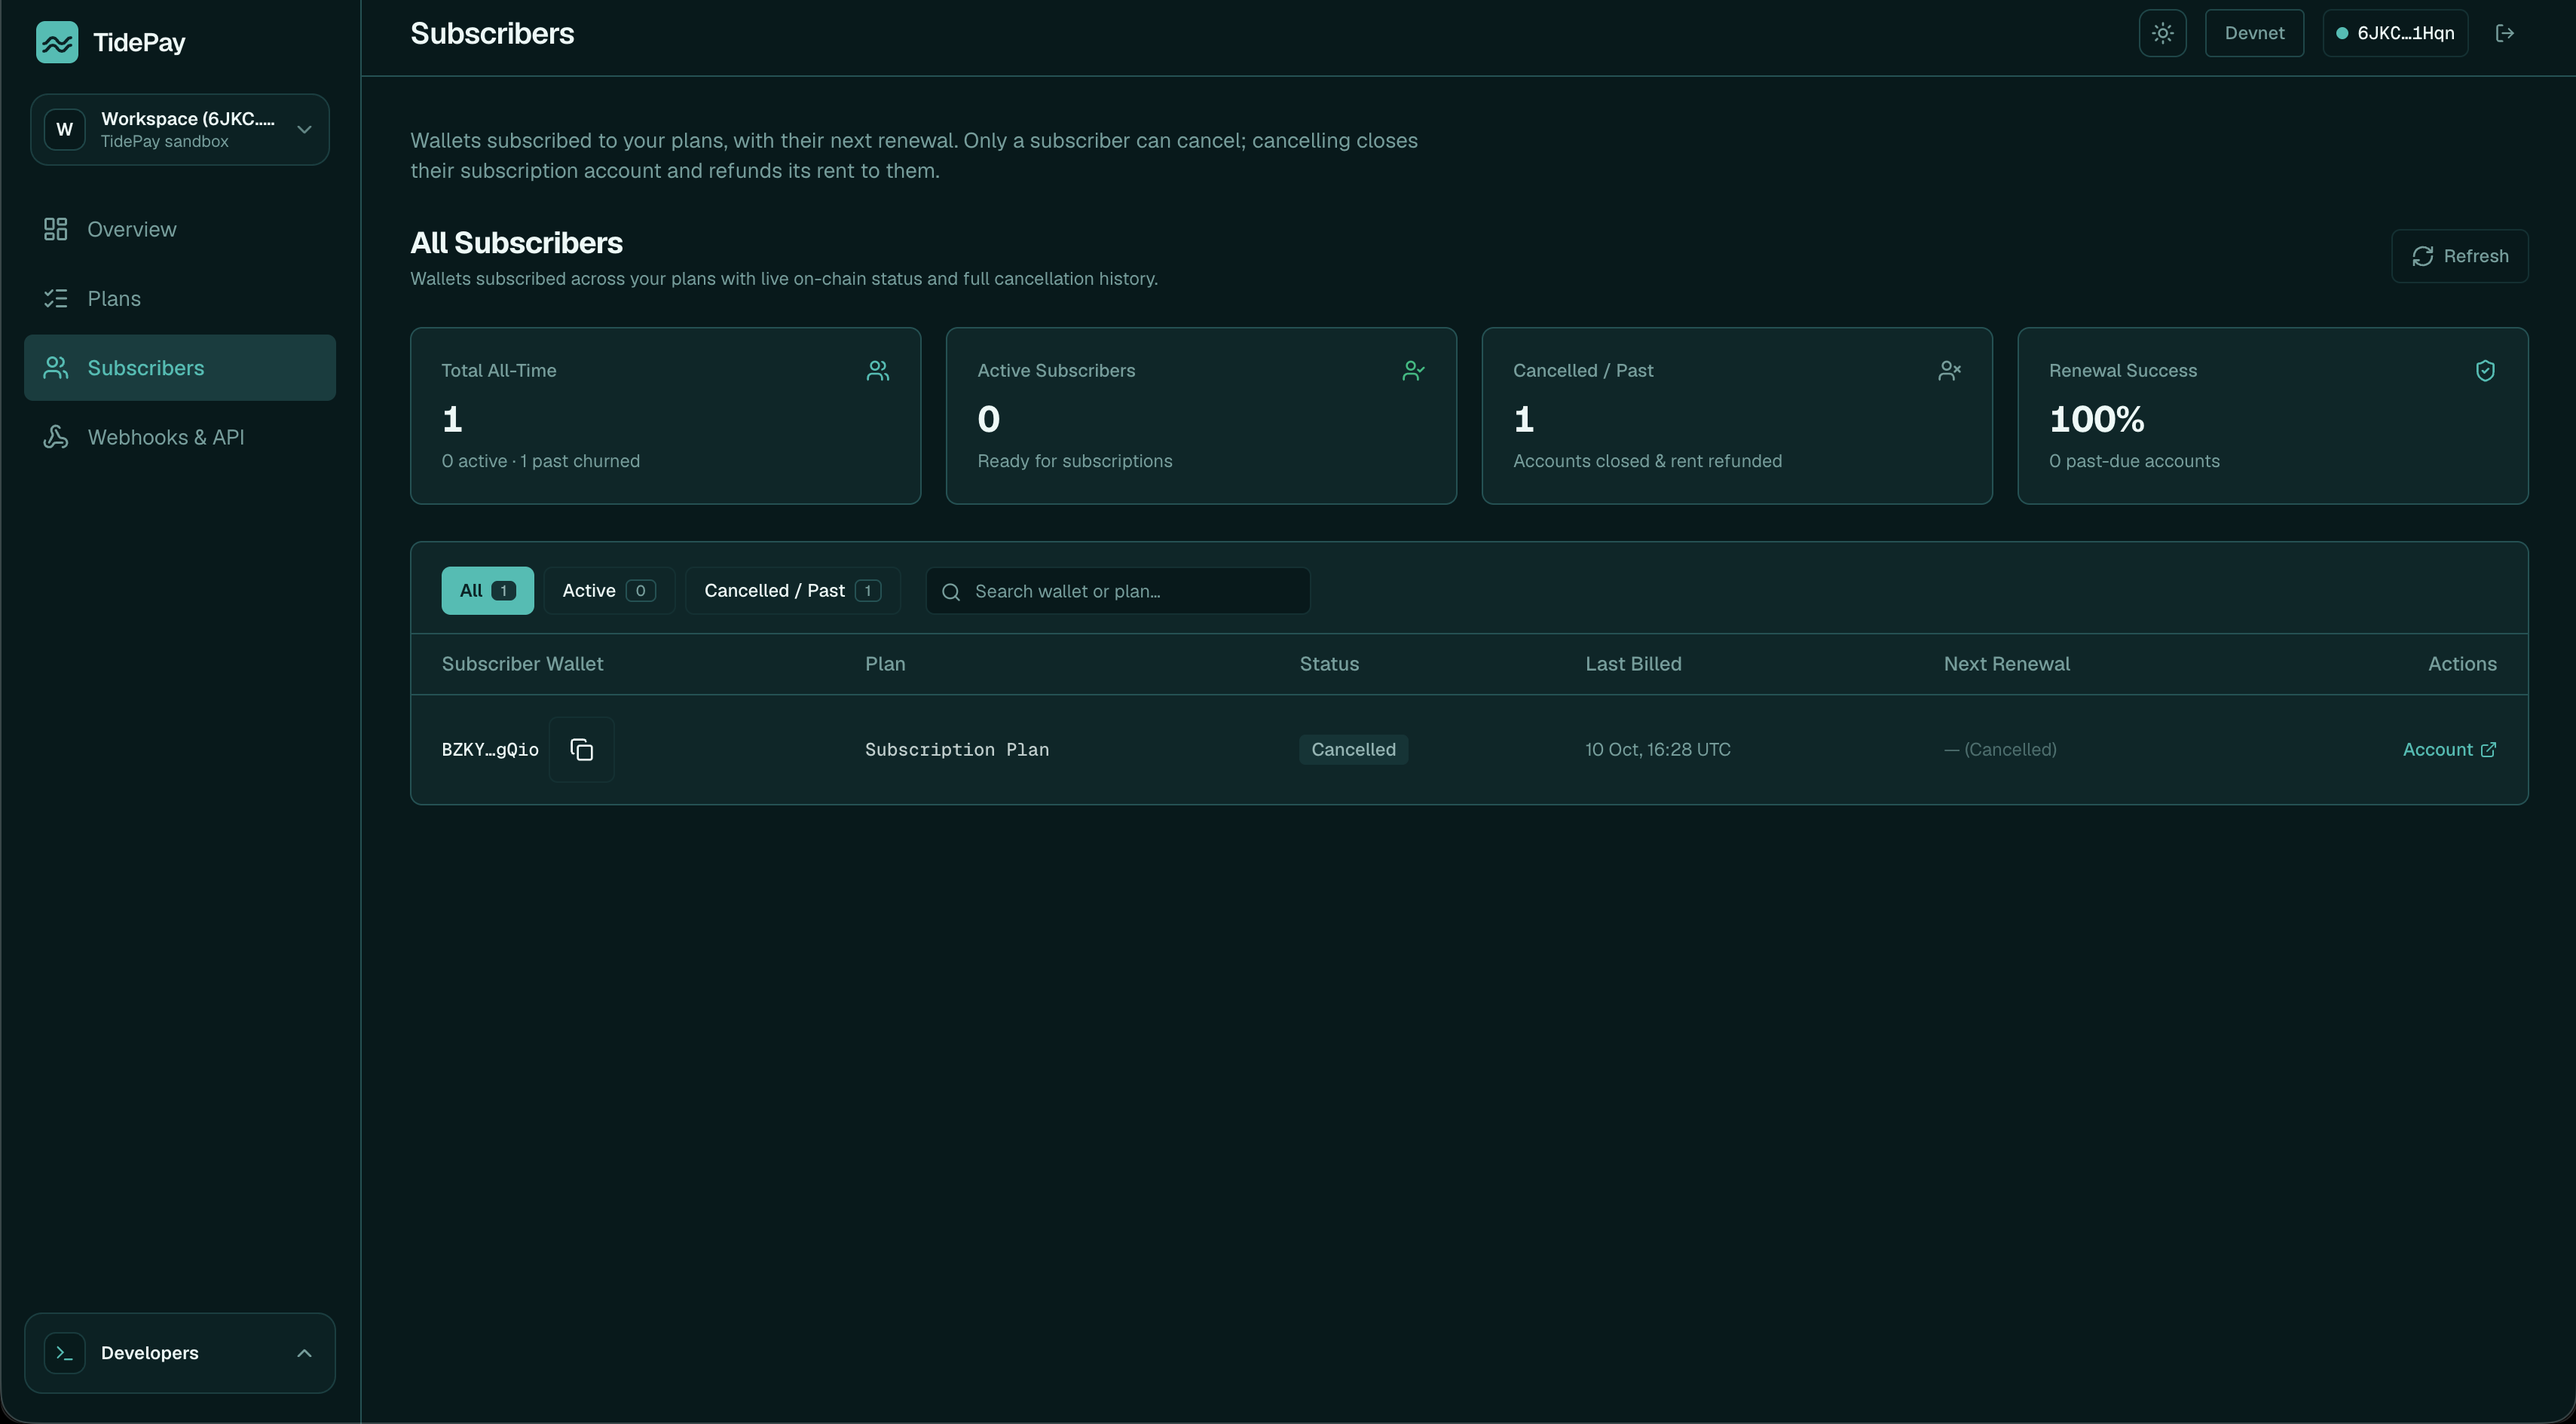
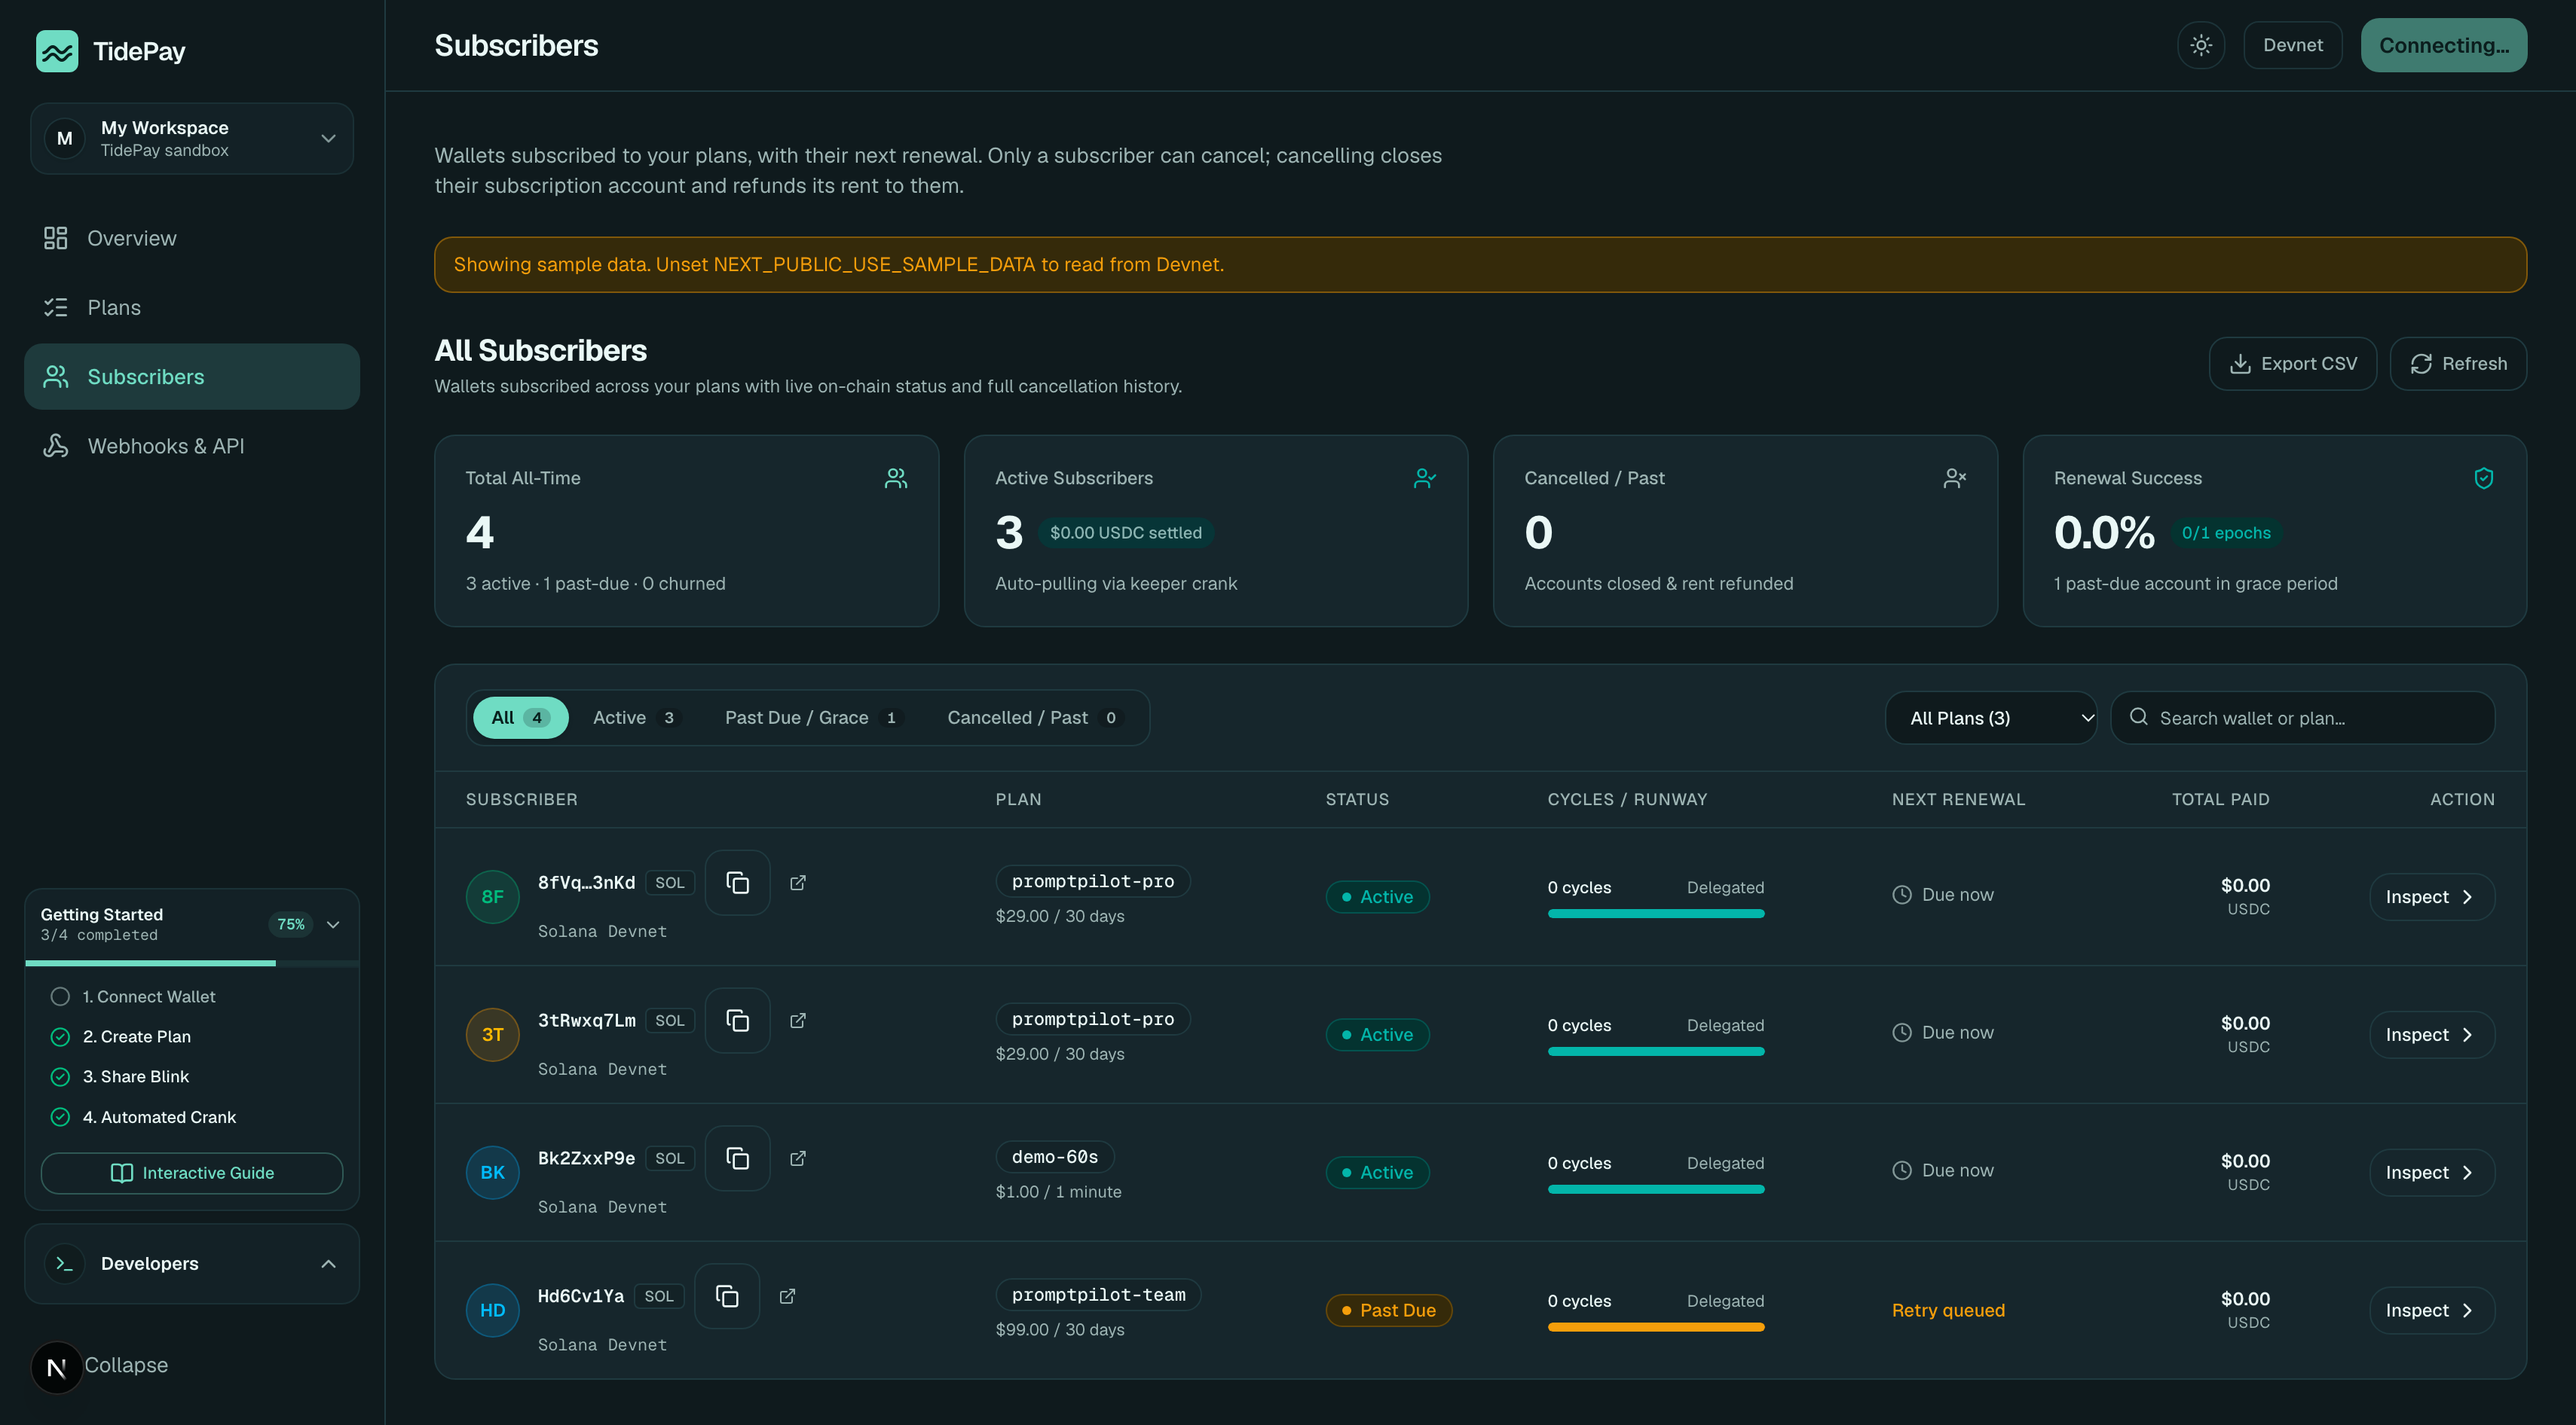
chore: polish multi-chain metadata, docs, links, Tailwind classes, and previews

diff --git a/apps/web/src/app/about/page.tsx b/apps/web/src/app/about/page.tsx
@@ -17,7 +17,7 @@ import {
 export const metadata: Metadata = {
   title: "About Us | TidePay Team & Developers",
   description:
-    "Meet the developers and architects behind TidePay, the non-custodial recurring subscription engine built for the Colosseum Hackathon on Solana.",
+    "Meet the developers and architects behind TidePay, the non-custodial multi-chain recurring subscription engine for Solana and NEAR.",
 };
 
 export default function AboutPage() {
@@ -41,10 +41,10 @@ export default function AboutPage() {
             <span className="inline-flex items-center gap-1.5 rounded-full border border-[#00bfb3]/20 bg-[#00bfb3]/10 px-2.5 py-0.5 text-[11px] font-mono font-medium text-[#00bfb3]">
               <Users className="h-3 w-3" /> Core Team & Vision
             </span>
-            <span className="text-xs font-mono text-zinc-500">Colosseum Hackathon 2026</span>
+            <span className="text-xs font-mono text-zinc-500">Solana &amp; NEAR Protocol</span>
           </div>
           <h1 className="mt-4 text-3xl sm:text-4xl lg:text-5xl font-semibold tracking-tight text-white font-display">
-            Building the Recurring Billing Engine for Solana
+            Building the Recurring Billing Engine for Solana &amp; NEAR
           </h1>
           <p className="mt-3 text-base text-zinc-400 max-w-2xl font-sans leading-relaxed">
             TidePay was founded with a singular conviction: recurring commerce on Web3 should never require custodial escrow vaults, wrapped bridge risks, or manual monthly signatures.
@@ -67,14 +67,14 @@ export default function AboutPage() {
             </p>
           </section>
 
-          {/* Hackathon Origins */}
+          {/* Multi-Chain Architecture */}
           <section className="rounded-2xl border border-white/8 bg-[#0f1015]/80 p-6 sm:p-8 space-y-4">
             <div className="flex items-center gap-2 text-xs font-mono text-[#00bfb3]">
-              <Award className="h-4 w-4" /> Colosseum Hackathon 2026
+              <Award className="h-4 w-4" /> NEAR Hackathon 2026 &amp; Multi-Chain Expansion
             </div>
-            <h3 className="text-xl font-semibold text-white font-display">Built for the Global Solana Ecosystem</h3>
+            <h3 className="text-xl font-semibold text-white font-display">Built for Solana &amp; NEAR Ecosystems</h3>
             <p className="text-xs sm:text-sm text-zinc-400 leading-relaxed">
-              TidePay was engineered from day one as a production-grade, non-custodial protocol for the Colosseum Hackathon. Every architectural decision—from Anchor 0.30+ program safety, SPL Token-2022 checked transfers, sub-second crank concurrency, and Solana Actions/Blinks compatibility—was made to empower developers, merchants, and creators worldwide.
+              TidePay is engineered as a non-custodial recurring billing protocol across Solana and NEAR. From Anchor 0.30+ SPL Token-2022 checked pulls and Solana Blinks to NEAR prepaid NEP-141 contracts, embedded merchant auth, and NEAR Intents 1Click cross-chain funding, every architectural decision empowers developers, merchants, and creators worldwide.
             </p>
           </section>
 

diff --git a/apps/web/src/app/layout.tsx b/apps/web/src/app/layout.tsx
@@ -21,13 +21,13 @@ const khandFont = localFont({
 
 export const metadata: Metadata = {
   metadataBase: new URL(LANDING_URL),
-  title: "TidePay | Non-Custodial Recurring Subscriptions on Solana",
+  title: "TidePay | Non-Custodial Recurring Subscriptions on Solana & NEAR",
   description:
-    "Purpose-built recurring billing engine for Solana. Zero custodial escrow risk. Time-locked pull payments via Token-2022 and autonomous keeper cranks. Collect subscriptions in-feed with Solana Blinks.",
+    "Purpose-built multi-chain recurring billing engine for Solana and NEAR. Zero custodial lockups, time-locked delegated pulls, prepaid NEP-141 epochs, NEAR Intents 1Click, and Solana Blinks.",
   openGraph: {
-    title: "TidePay | Non-Custodial Recurring Subscriptions on Solana",
+    title: "TidePay | Non-Custodial Recurring Subscriptions on Solana & NEAR",
     description:
-      "Time-locked delegated pull billing and autonomous keeper cranks for Solana.",
+      "Time-locked delegated pull billing on Solana, prepaid NEP-141 subscriptions on NEAR, and autonomous keeper cranks.",
     url: LANDING_URL,
     siteName: "TidePay",
     images: [
@@ -35,7 +35,7 @@ export const metadata: Metadata = {
         url: "/og-image.png",
         width: 1200,
         height: 630,
-        alt: "TidePay - Non-Custodial Recurring Subscriptions on Solana",
+        alt: "TidePay - Non-Custodial Recurring Subscriptions on Solana & NEAR",
       },
     ],
     locale: "en_US",
@@ -43,8 +43,8 @@ export const metadata: Metadata = {
   },
   twitter: {
     card: "summary_large_image",
-    title: "TidePay | Recurring Subscriptions on Solana",
-    description: "Zero escrow. 1-click in-feed Blinks. Autonomous keeper cranks.",
+    title: "TidePay | Recurring Subscriptions on Solana & NEAR",
+    description: "Zero custodial lockup. Solana Blinks, NEAR NEP-141 epochs & 1Click Intents.",
     images: ["/og-image.png"],
   },
   icons: {

diff --git a/apps/dashboard/src/components/console/overview-view.tsx b/apps/dashboard/src/components/console/overview-view.tsx
@@ -613,8 +613,8 @@ function RevenueChart({ events }: { events: PlanOnChainEvent[] }) {
   const line = pts.map(([x, y], i) => `${i ? "L" : "M"}${x.toFixed(1)},${y.toFixed(1)}`).join(" ");
 
   return (
-    <div className="flex flex-1 flex-col justify-between w-full h-full min-h-[220px]">
-      <div className="relative flex flex-1 items-center justify-center w-full my-4 min-h-[170px]">
+    <div className="flex flex-1 flex-col justify-between w-full h-full min-h-55">
+      <div className="relative flex flex-1 items-center justify-center w-full my-4 min-h-42.5">
         {hasData ? (
           <svg viewBox={`0 0 ${W} ${H}`} preserveAspectRatio="none" className="h-full w-full" role="img" aria-label="Revenue over the last 30 days">
             <defs>
@@ -627,7 +627,7 @@ function RevenueChart({ events }: { events: PlanOnChainEvent[] }) {
             <path d={line} fill="none" stroke="var(--primary)" strokeWidth="2.5" vectorEffect="non-scaling-stroke" strokeLinejoin="round" />
           </svg>
         ) : (
-          <div className="relative flex flex-1 items-center justify-center w-full h-full min-h-[170px]">
+          <div className="relative flex flex-1 items-center justify-center w-full h-full min-h-42.5">
             <svg viewBox={`0 0 ${W} ${H}`} preserveAspectRatio="none" className="absolute inset-0 h-full w-full" role="img" aria-label="No revenue yet">
               <line x1="0" y1={H * 0.25} x2={W} y2={H * 0.25} stroke="currentColor" strokeDasharray="4 4" className="text-border/40" strokeWidth="1" />
               <line x1="0" y1={H * 0.5} x2={W} y2={H * 0.5} stroke="currentColor" strokeDasharray="4 4" className="text-border/40" strokeWidth="1" />

diff --git a/apps/dashboard/src/components/docs/docs-view.tsx b/apps/dashboard/src/components/docs/docs-view.tsx
@@ -657,8 +657,8 @@ function DocsContent() {
                     Part 1: The Recurring Subscription Engine
                   </h2>
                   <p>
-                    TidePay is a decentralized subscription infrastructure engine built for the Colosseum Solana Hackathon.
-                    Traditional Web3 billing forces users to either manually sign transactions every 30 days or lock upfront capital into escrow contracts. TidePay introduces a <strong>non-custodial delegated pull mechanism</strong>.
+                    TidePay is a decentralized multi-chain subscription infrastructure engine for Solana and NEAR.
+                    Traditional Web3 billing forces users to either manually sign transactions every 30 days or lock upfront capital into escrow contracts. TidePay introduces <strong>non-custodial delegated pull billing</strong> on Solana and <strong>prepaid NEP-141 epochs</strong> on NEAR.
                   </p>
 
                   <div className="rounded-lg border border-border bg-muted/40 p-4 text-xs font-mono text-emerald-600 dark:text-emerald-400 flex flex-col gap-1.5">

diff --git a/apps/web/src/app/security/page.tsx b/apps/web/src/app/security/page.tsx
@@ -16,11 +16,11 @@ import {
 export const metadata: Metadata = {
   title: "Security Architecture & Trust | TidePay",
   description:
-    "Security specifications, non-custodial invariants, and formal on-chain audit guidelines for the TidePay protocol on Solana.",
+    "Security specifications, non-custodial invariants, and formal on-chain safety guidelines for TidePay across Solana and NEAR.",
 };
 
 export default function SecurityPage() {
-  const lastAudited = "Colosseum Hackathon 2026";
+  const lastAudited = "Multi-Chain Release (Solana & NEAR)";
 
   return (
     <div className="relative min-h-screen py-16 sm:py-24">

diff --git a/apps/web/src/components/footer.tsx b/apps/web/src/components/footer.tsx
@@ -126,8 +126,8 @@ export function Footer() {
                 </a>
               </li>
               <li>
-                <a href={`${DASHBOARD_URL}/webhooks-api`} target="_blank" rel="noopener noreferrer" className="hover:text-white transition-colors">
-                  Developer Guide
+                <a href={`${DASHBOARD_URL}/webhooks`} target="_blank" rel="noopener noreferrer" className="hover:text-white transition-colors">
+                  Webhooks &amp; API
                 </a>
               </li>
               <li>

diff --git a/apps/web/src/components/partners-bar.tsx b/apps/web/src/components/partners-bar.tsx
@@ -5,7 +5,7 @@ export function PartnersBar() {
     { name: "NEAR Intents", label: "1CLICK CROSS-CHAIN" },
     { name: "Dialect", label: "SOLANA ACTIONS & BLINKS" },
     { name: "Phantom", label: "DELEGATED SESSIONS" },
-    { name: "Colosseum", label: "COLOSSEUM 2026" },
+    { name: "Privy", label: "EMBEDDED AUTH" },
   ];
 
   return (

diff --git a/apps/dashboard/src/app/layout.tsx b/apps/dashboard/src/app/layout.tsx
@@ -15,7 +15,7 @@ const geistMono = Geist_Mono({
 
 export const metadata: Metadata = {
   title: { default: "TidePay", template: "%s · TidePay" },
-  description: "Non-custodial recurring payments on Solana.",
+  description: "Non-custodial recurring payments on Solana and NEAR.",
   icons: {
     icon: "/icon.svg",
   },

diff --git a/docs/ARCHITECTURE_AND_PRD.md b/docs/ARCHITECTURE_AND_PRD.md
@@ -1,8 +1,8 @@
 # TidePay — Product Requirements Document (PRD) & Technical Architecture Specification
 
 **Project Name:** TidePay  
-**Version:** 1.0.0 (Colosseum Hackathon Edition)  
-**Status:** Live on Solana Devnet  
+**Version:** 2.0.0 (Solana & NEAR Multi-Chain Edition)  
+**Status:** Live on Solana Devnet & NEAR Testnet  
 **Program ID:** `DfAycPzXuSu4EzqfAprZ11S8oQZ6nucuRniFNrNaK5CQ`  
 **Repository:** [github.com/TeddyHuZz/tidepay](https://github.com/TeddyHuZz/tidepay)  
 
@@ -235,6 +235,6 @@ The TidePay repository maintains comprehensive test coverage across both protoco
 
 ## 9. Product Roadmap
 
-* **Phase 1 (Current - Colosseum Hackathon):** Deployed Anchor core protocol, keeper crank, Next.js 15 merchant dashboard, `@tidepay/sdk`, and Solana Blinks checkout.
-* **Phase 2 (Post-Hackathon):** Mainnet-Beta deployment, multi-token collateral pools (EURC, SOL, JitoSOL), and Dialect Actions registry listing.
+* **Phase 1 (Solana Core):** Deployed Anchor core protocol, keeper crank, Next.js 16 merchant dashboard, `@tidepay/sdk`, and Solana Blinks checkout.
+* **Phase 2 (NEAR & Cross-Chain Expansion - Current):** NEAR Rust NEP-141 contract (`packages/contracts-near`), `@tidepay/sdk-near`, `@tidepay/crank-near` unified crank discovery, gasless NEAR onboarding, and NEAR Intents 1Click cross-chain funding.
 * **Phase 3 (Ecosystem Expansion):** Token-2022 Transfer Hook extensions, machine-to-machine AI agent billing SDK plugins, and enterprise Webhook event streams.
